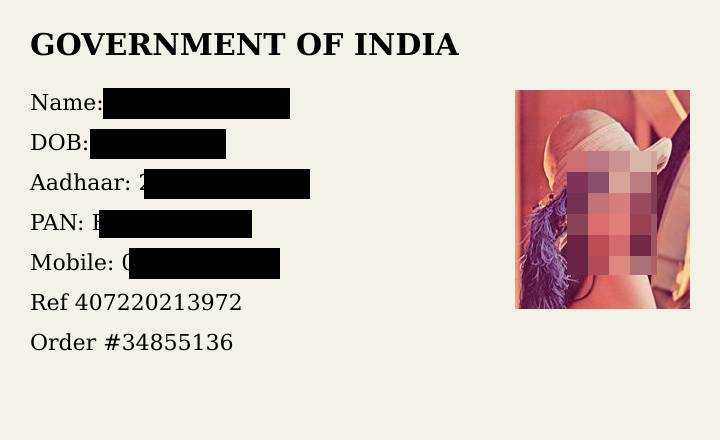
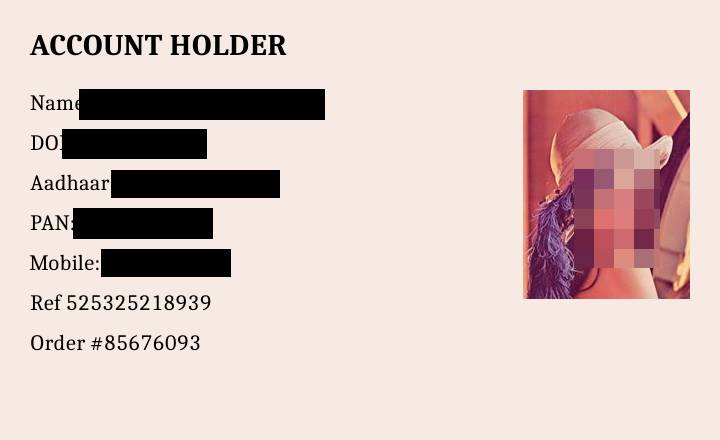
phase 9 E4b: fresh seed 7777, image arm 10/12 right and 10/12 clean finish (was 3/12), 0 leaks

diff --git a/docs/PHASE9.md b/docs/PHASE9.md
@@ -122,3 +122,16 @@ What this shows:
 | 9102 (fresh, degraded) | 60 | 5/279 | **0** | 119 -> 115 |
 
 On degraded cards, the values still readable after masking are digits the first OCR pass misread, so no pattern matched them. Every such card was blocked by the re-OCR leak gate; none was sent.
+
+### E4b: after the finish fix, fresh seed 7777 (Kaggle, 7B)
+
+Changes since E4 (e371aa9, 69e09c2): the prompt says to reply done as soon as the request is met and never to use a placeholder that isn't in the legend; element lists go on the wire once instead of twice; the span-mask padding; the OCR label:value rule.
+
+| Arm | Right option | Clean finish (done) | Bodies with a card value | Image p50 | Device vision p50 | Round-trip p50 / p95 |
+|---|--:|--:|--:|--:|--:|--:|
+| text only | 6/12 (guessing; chance 4/12) | 4/12 | 0/42 | - | - | 735 / 870 ms |
+| masked image on need_visual | **10/12** | **10/12** (was 3/12) | 0/41 | 20 KB | 879 ms | 755 / 1694 ms |
+
+- Image arm: 10/12 right, same as seed 5151. Clean finishes rose from 3/12 to 10/12. The two wrong answers were both "ACCOUNT HOLDER" cards read as a different type.
+- The invented `<PAN_1>` is still the main failure. It happened 8 times in the text arm and once in the image arm, always typed into a text element. The validator rejected every one (`unknown_token`), so nothing unsafe happened.
+- 0 of 83 requests carried a card value. No gate blocks happened this run.

diff --git a/eval/results/phase9-e4-7777.md b/eval/results/phase9-e4-7777.md
@@ -1,0 +1,10 @@
+# E4: does the masked image help? (12 cards, seed 7777, planner vlm:Qwen/Qwen2.5-VL-7B-Instruct-AWQ)
+
+Task: "Set the Document type to match the uploaded card, then finish." The right option depends only on the card header, which is in the pixels only. Half the cards are degraded (rotation, blur, downscale, JPEG). Chance level with 3 options: 4.0/12.
+
+| Arm | Right option | Done | Asked need_visual | Bodies with a card value | Image p50 | Device vision p50 | Round-trip ms p50 / p95 | Outcomes |
+|---|--:|--:|--:|--:|--:|--:|--:|---|
+| text only | 6/12 | 4/12 | 0/12 | 0/42 | - | - | 735 / 870 | {"rejected":8,"done":4} |
+| masked image on need_visual | 10/12 | 10/12 | 12/12 | 0/41 | 20 KB | 879 ms | 755 / 1694 | {"done":10,"rejected":1,"max_steps":1} |
+
+Round-trip is measured at the device (includes tunnel). Device vision = OCR + faces + NER + masking + JPEG encode + re-OCR for the gate, Node CPU.
